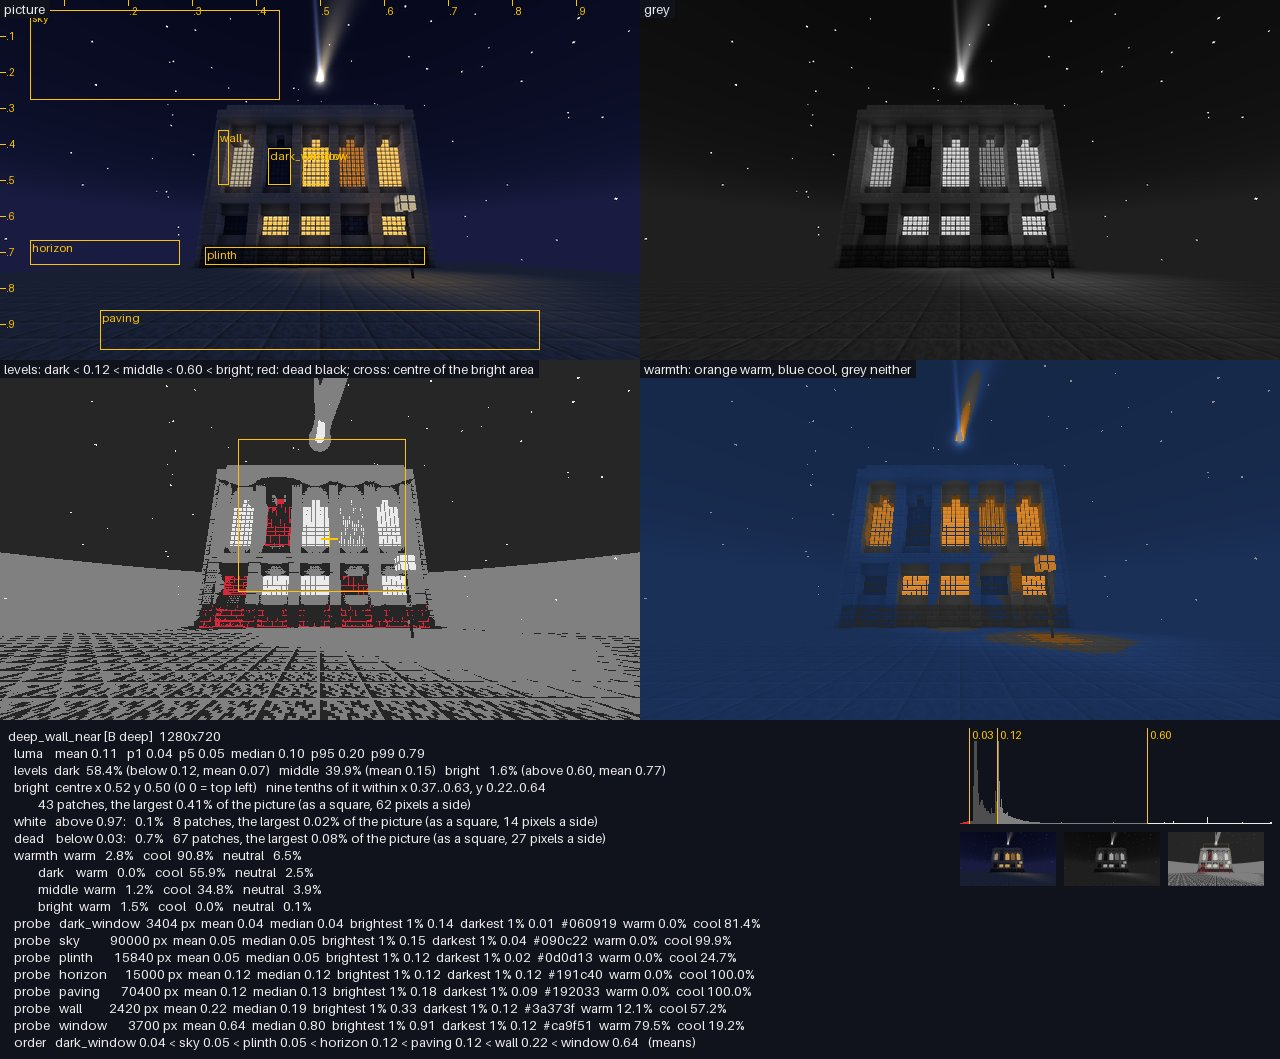
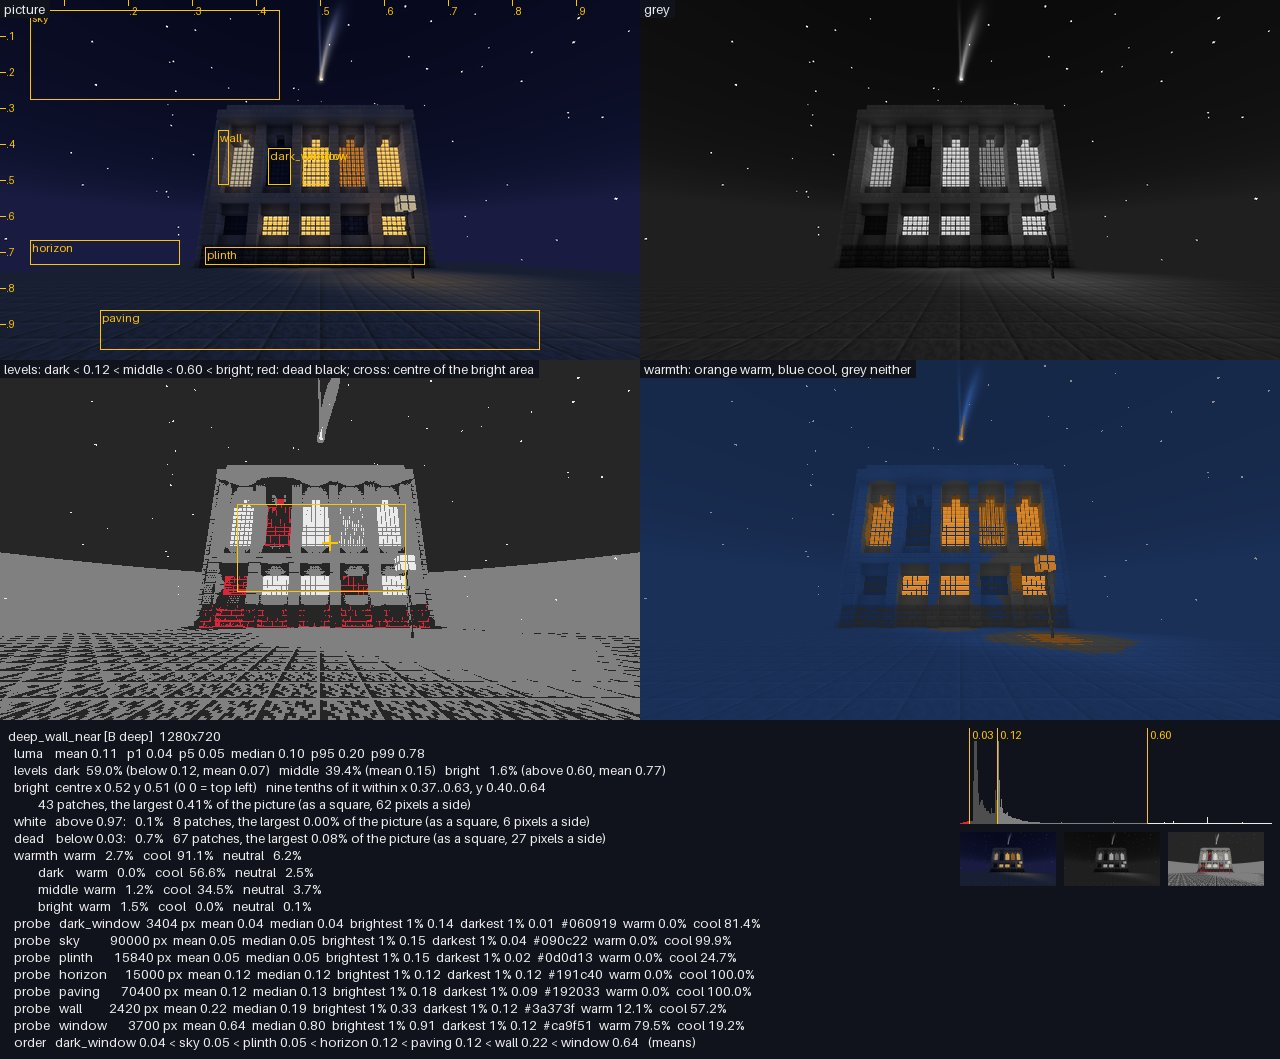
c164-a2: sky/tones: the light board measured again with the comet of sky/comet in its sky (the three sheets and the table)

diff --git a/c164-realms/plan/packages/sky/tones.md b/c164-realms/plan/packages/sky/tones.md
@@ -52,13 +52,13 @@ nice /agent/realms-study/.venv/bin/python scenes/obs/sky/_tones.py <图> [<图> 
 
 **样例**（都是 git 里的离线图；对照图在 `plan/parts/figs/tones/`，框表是同一个文件夹里的 `probes.json`）：
 
-光线板 `obs_sky_look` 同一个机位的三张（`renders/obs_sky_look/` 的 `blue_wall_near`、`deep_wall_near`、`glow_wall_near`，时刻 14000、18000、12900；11-16 在 node36 上出的，`71f31bca`）。验收第一条就是这张表：
+光线板 `obs_sky_look` 同一个机位的三张（`renders/obs_sky_look/` 的 `blue_wall_near`、`deep_wall_near`、`glow_wall_near`，时刻 14000、18000、12900；11-16 在 node36 上出的，`ffe1e6b2`，彗星已经是 `sky/comet` 的）。验收第一条就是这张表：
 
 | | 暗 | 中 | 亮 | 三级各自的平均亮度 | 死黑 | 最大一片死黑 | 暖 / 冷 | 框：屋面以上的天 / 地平线带 / 墙 / 亮窗 |
 | --- | --- | --- | --- | --- | --- | --- | --- | --- |
-| A | 47.2% | 51.2% | 1.6% | 0.14 / 0.23 / 0.76 | 0.3% | 0.01%（7 像素见方） | 2.1% / 93.9% | 0.13 / 0.25 / 0.28（中位 0.25） / 0.64（中位 0.80） |
-| B | 58.4% | 39.9% | 1.6% | 0.07 / 0.15 / 0.77 | 0.7% | 0.08%（27 像素见方） | 2.8% / 90.8% | 0.05 / 0.12 / 0.22（中位 0.19） / 0.64（中位 0.80） |
-| C | 52.8% | 45.7% | 1.5% | 0.20 / 0.30 / 0.76 | 0.2% | 0.00%（6 像素见方） | 2.5% / 90.0% | 0.20 / 0.33 / 0.32（中位 0.30） / 0.64（中位 0.80） |
+| A | 47.6% | 50.8% | 1.6% | 0.13 / 0.23 / 0.76 | 0.3% | 0.01%（7 像素见方） | 2.1% / 93.9% | 0.13 / 0.25 / 0.28（中位 0.25） / 0.64（中位 0.80） |
+| B | 59.0% | 39.4% | 1.6% | 0.07 / 0.15 / 0.77 | 0.7% | 0.08%（27 像素见方） | 2.7% / 91.1% | 0.05 / 0.12 / 0.22（中位 0.19） / 0.64（中位 0.80） |
+| C | 52.9% | 45.6% | 1.5% | 0.20 / 0.30 / 0.76 | 0.2% | 0.00%（6 像素见方） | 2.5% / 90.0% | 0.20 / 0.33 / 0.32（中位 0.30） / 0.64（中位 0.80） |
 
 另外三个框：暗窗 0.06 / 0.04 / 0.07，勒脚 0.07 / 0.05 / 0.08，铺地 0.19 / 0.12 / 0.24。
 
